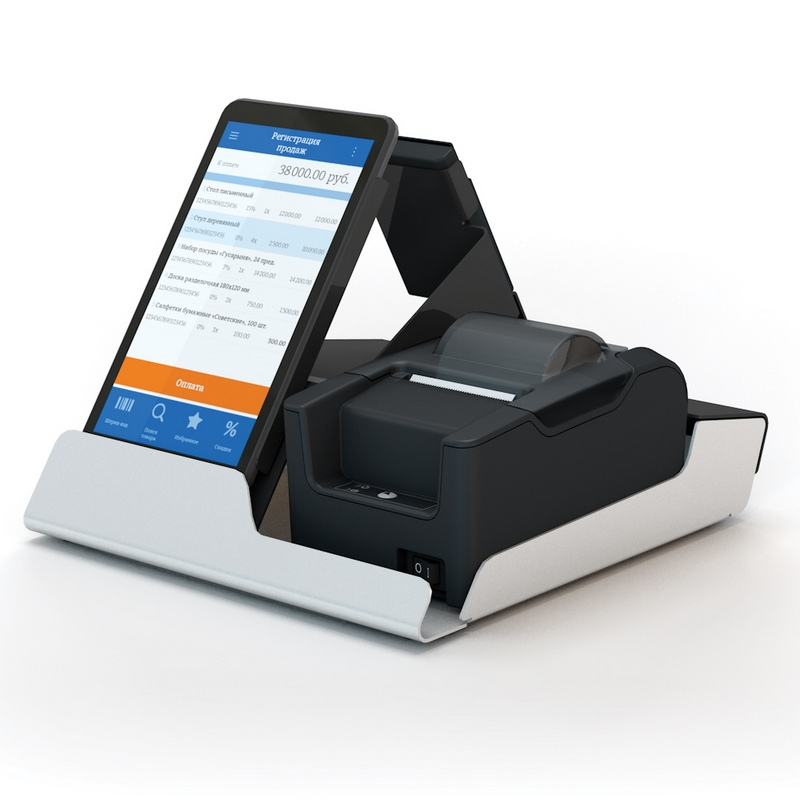
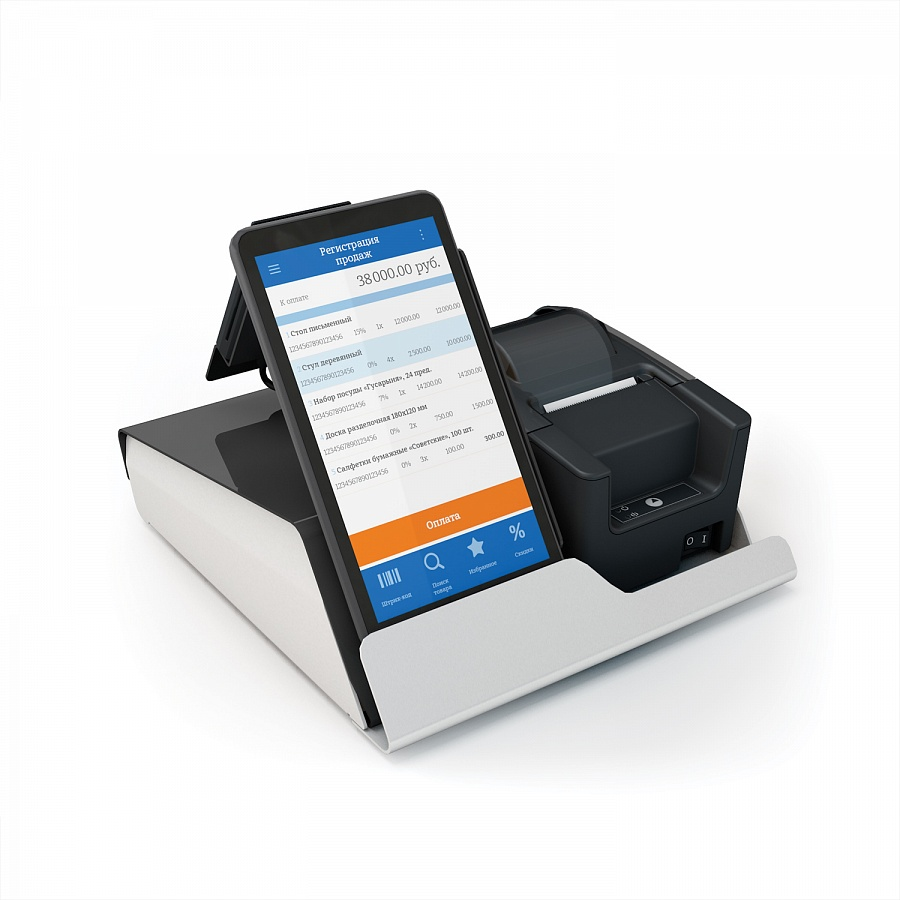
Add new pictures and description

Changed region(s): [[0.0312, 0.125, 0.9688, 0.8438], [0.7812, 0.8438, 0.8438, 0.875]]

diff --git a/check-till/index.html b/check-till/index.html
@@ -49,52 +49,25 @@
 		
     </header><!--/header-->
     
-    <div>
-    	<ul class="fs">
-    		<li><a href="images/cash-machine/first-main.jpg">
-    			<img src="images/cash-machine/first-main.jpg" alt="First" width="250" height="250">FIrst</a>
-    			</li>
-    		<li><a href="images/cash-machine/Second-main.jpg">
-    			<img src="images/cash-machine/Second-main.jpg" alt="Second" width="250" height="250">SEcond</a>
-    		</li>
-    		<style>
-	.fs {
-    
-    margin-top: 72px;
-    display: flex;
-    justify-content: space-between;
-				}
-	.fs li {
-		list-style-type: none;
-		}
-</style>
-    	</ul>
-    </div>
-    <div>
-    	<ul  class="creactors">
-    		<li>
-    			<p>1</p>
-    		</li>
-    		<li>
-    			<p>2</p>
-    		</li>
-    		<li>
-    			<p>3</p>
-    		</li>
-    	</ul>
-    	<style>
-			
-			.creators {
-				 display: flex;
-    justify-content: space-between;
-			}
-			.creactors li{
-				
-				list-style-type: none;
-			}
-		</style>
-    </div>
+    <div class="itempage">
+    	<div class="fs">
+    		<div><a href="images/cash-machine/first-main.jpg">
+    			<img src="images/cash-machine/first-main.jpg" alt="First" width="500" height="500"></a>
+    			<div class="txt">
+    			<h2>Стационарный кассовый аппарат</h2>
+    			
+    			</div>
+    			</div>
+    			
+    		<div><a href="images/cash-machine/Second-main.jpg">
+    			<img src="images/cash-machine/Second-main.jpg" alt="Second" width="500" height="500"></a>
+    			<div class="txt">
+    			<h2>Переносной кассовый апарат</h2>
+    			
+    			</div>
+    		</div>
 
+    </div>
 	 <section id="feature" >
         <div class="container">
            <div class="center wow fadeInDown">

diff --git a/check-till/css/main.css b/check-till/css/main.css
@@ -60,7 +60,38 @@ hr {
   border-bottom: 1px solid #fff;
 }
 
+.itempage {
+    position: relative;
+    margin-top: 130px;
+}
+.txt{
+	text-align: center;
+}
+.fs {
+    
+    margin-top: 72px;
+    display: flex;
+    justify-content: space-between;
+	}
 
+/*.fs {
+	margin: 0 auto;
+	display: inline-flex;
+	position: inherit ;
+    top: 0;
+    right: 0;
+    left: 0;
+    width: 100%;
+    overflow-x: hidden;
+    overflow-y: hidden;
+    background: rgba(255,255,255,.95);
+    box-shadow: 0 3px 4px 0 rgba(0,0,0,.17);
+    z-index: 14;
+}
+.fs li {
+	list-style-type: none;
+		}
+*/
 .btn-primary {
   padding: 8px 20px;
   background: #E8CE0E;

diff --git a/check-till/css/changes.css b/check-till/css/changes.css
@@ -12,3 +12,8 @@
 	list-style-type: none;
 	
 }
+
+.slider {
+    position: relative;
+    margin-top: 130px;
+}
